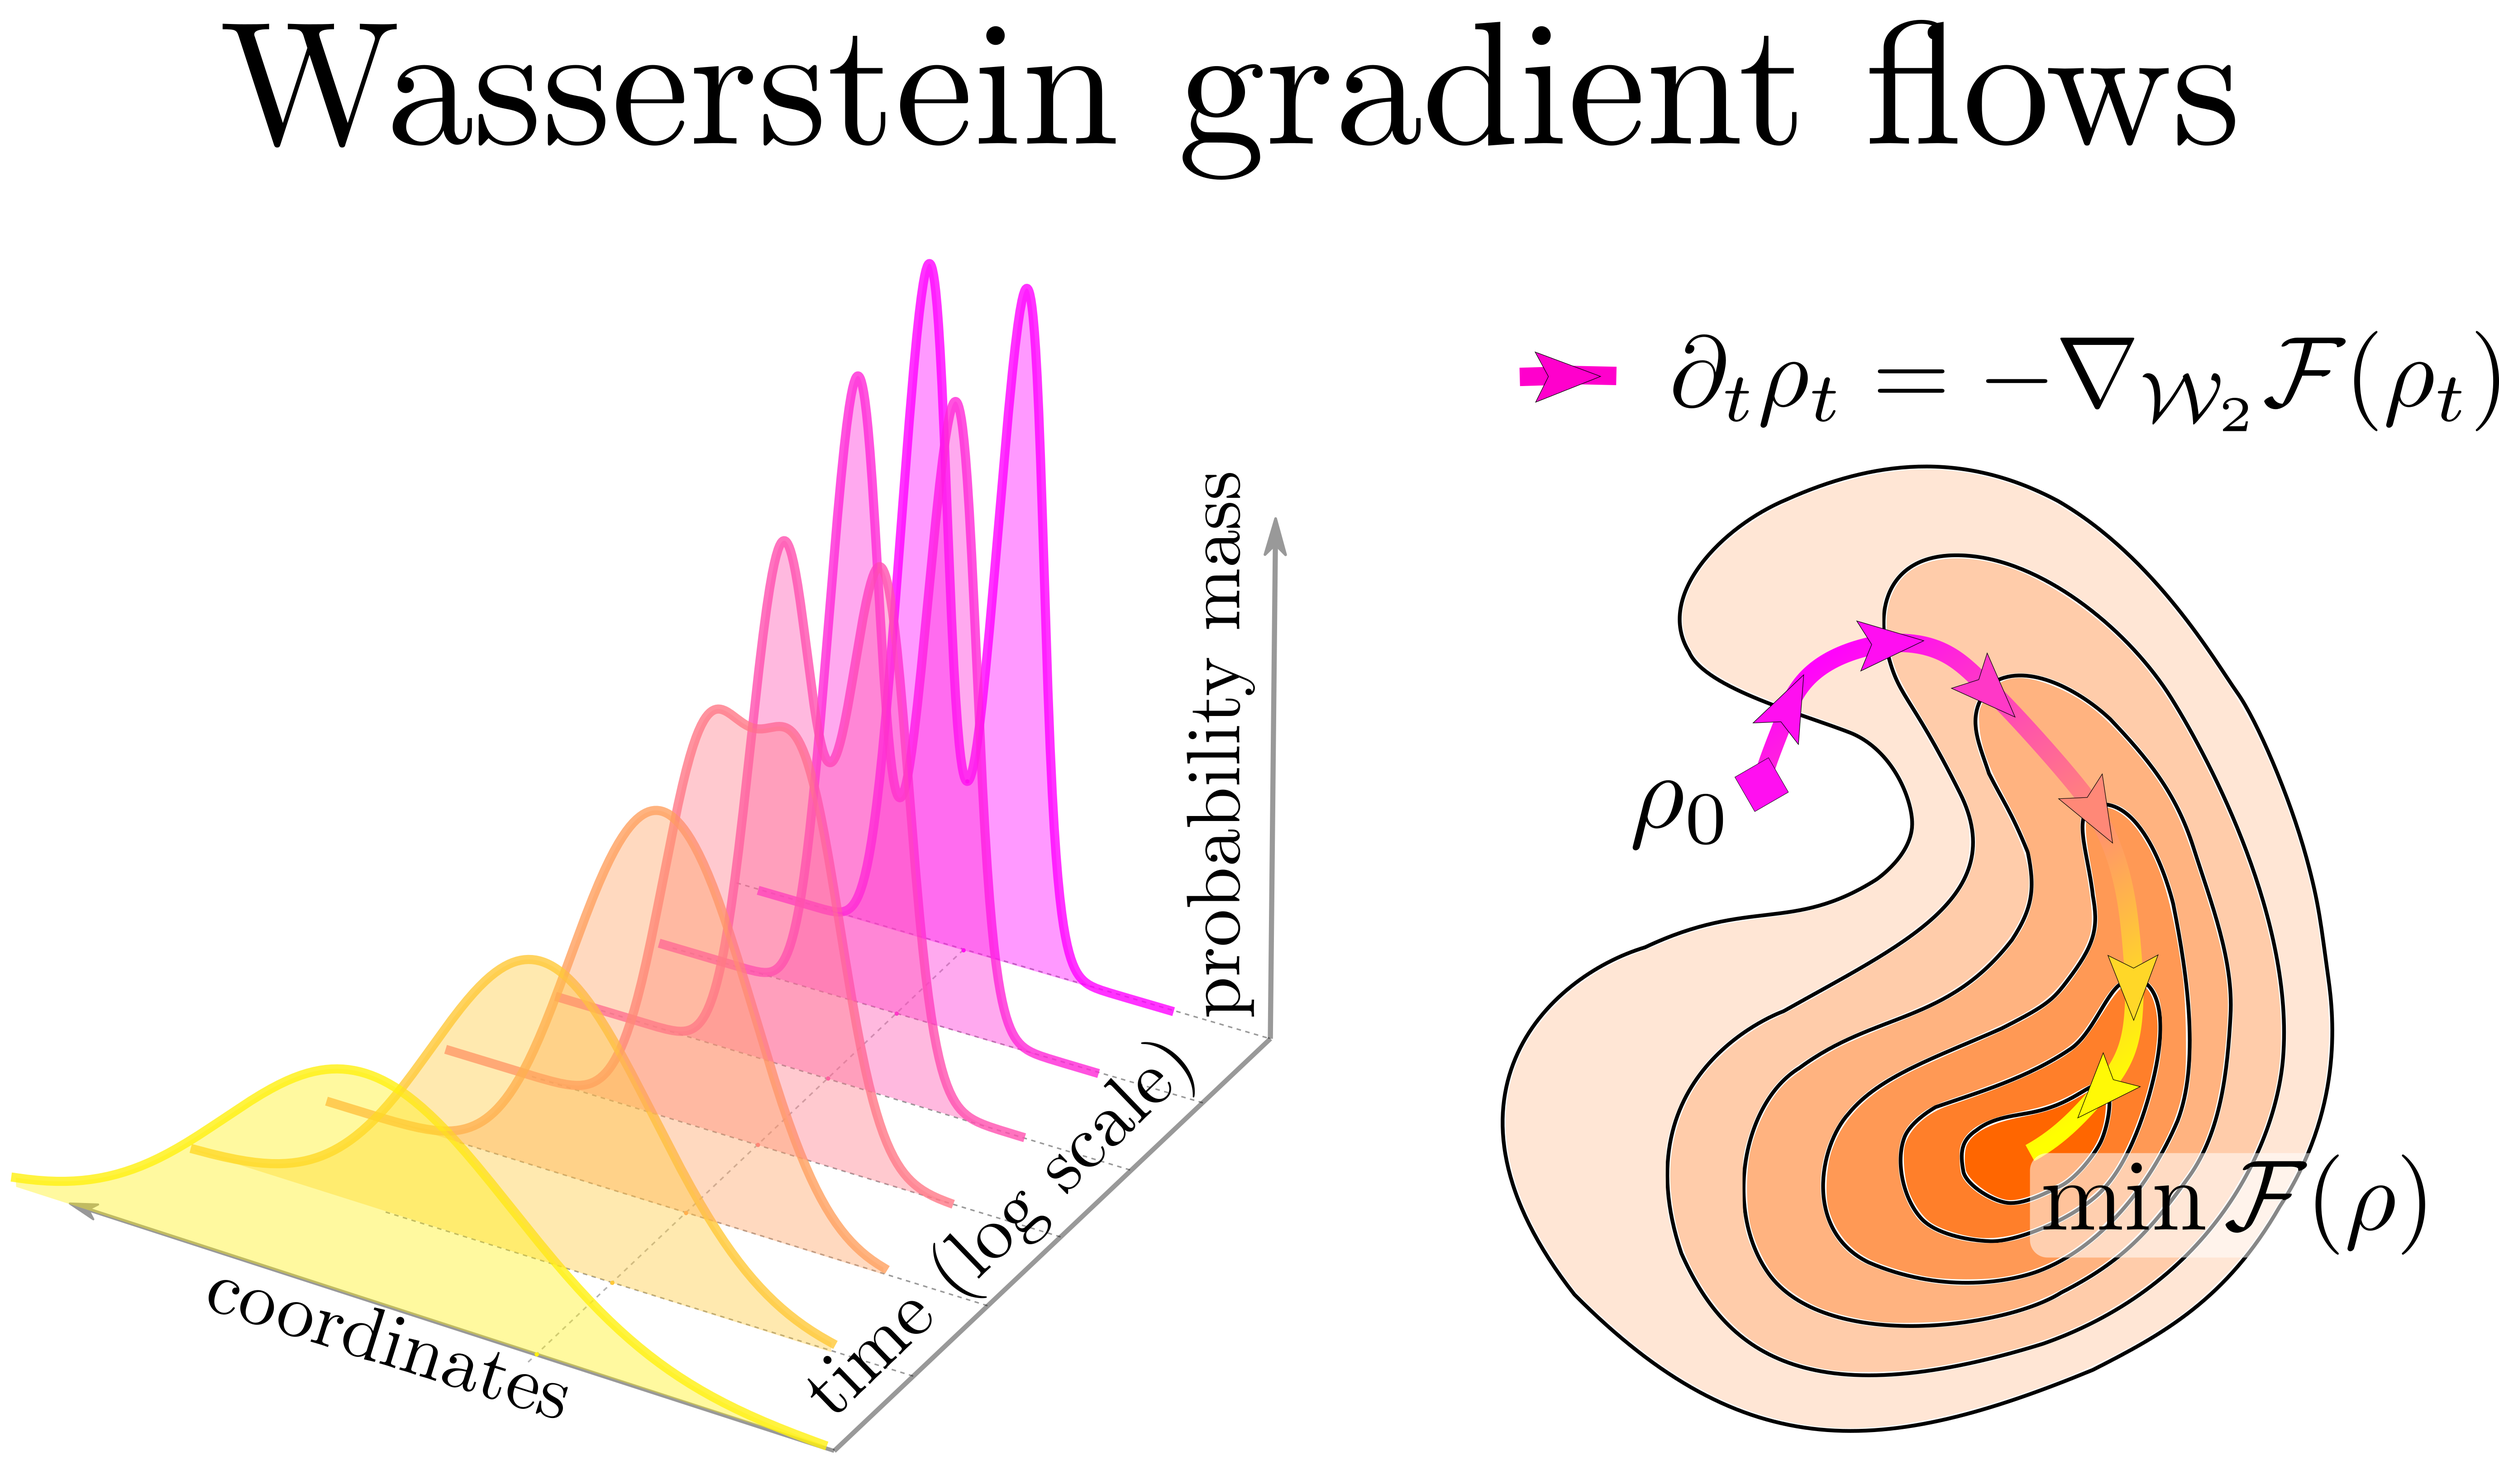
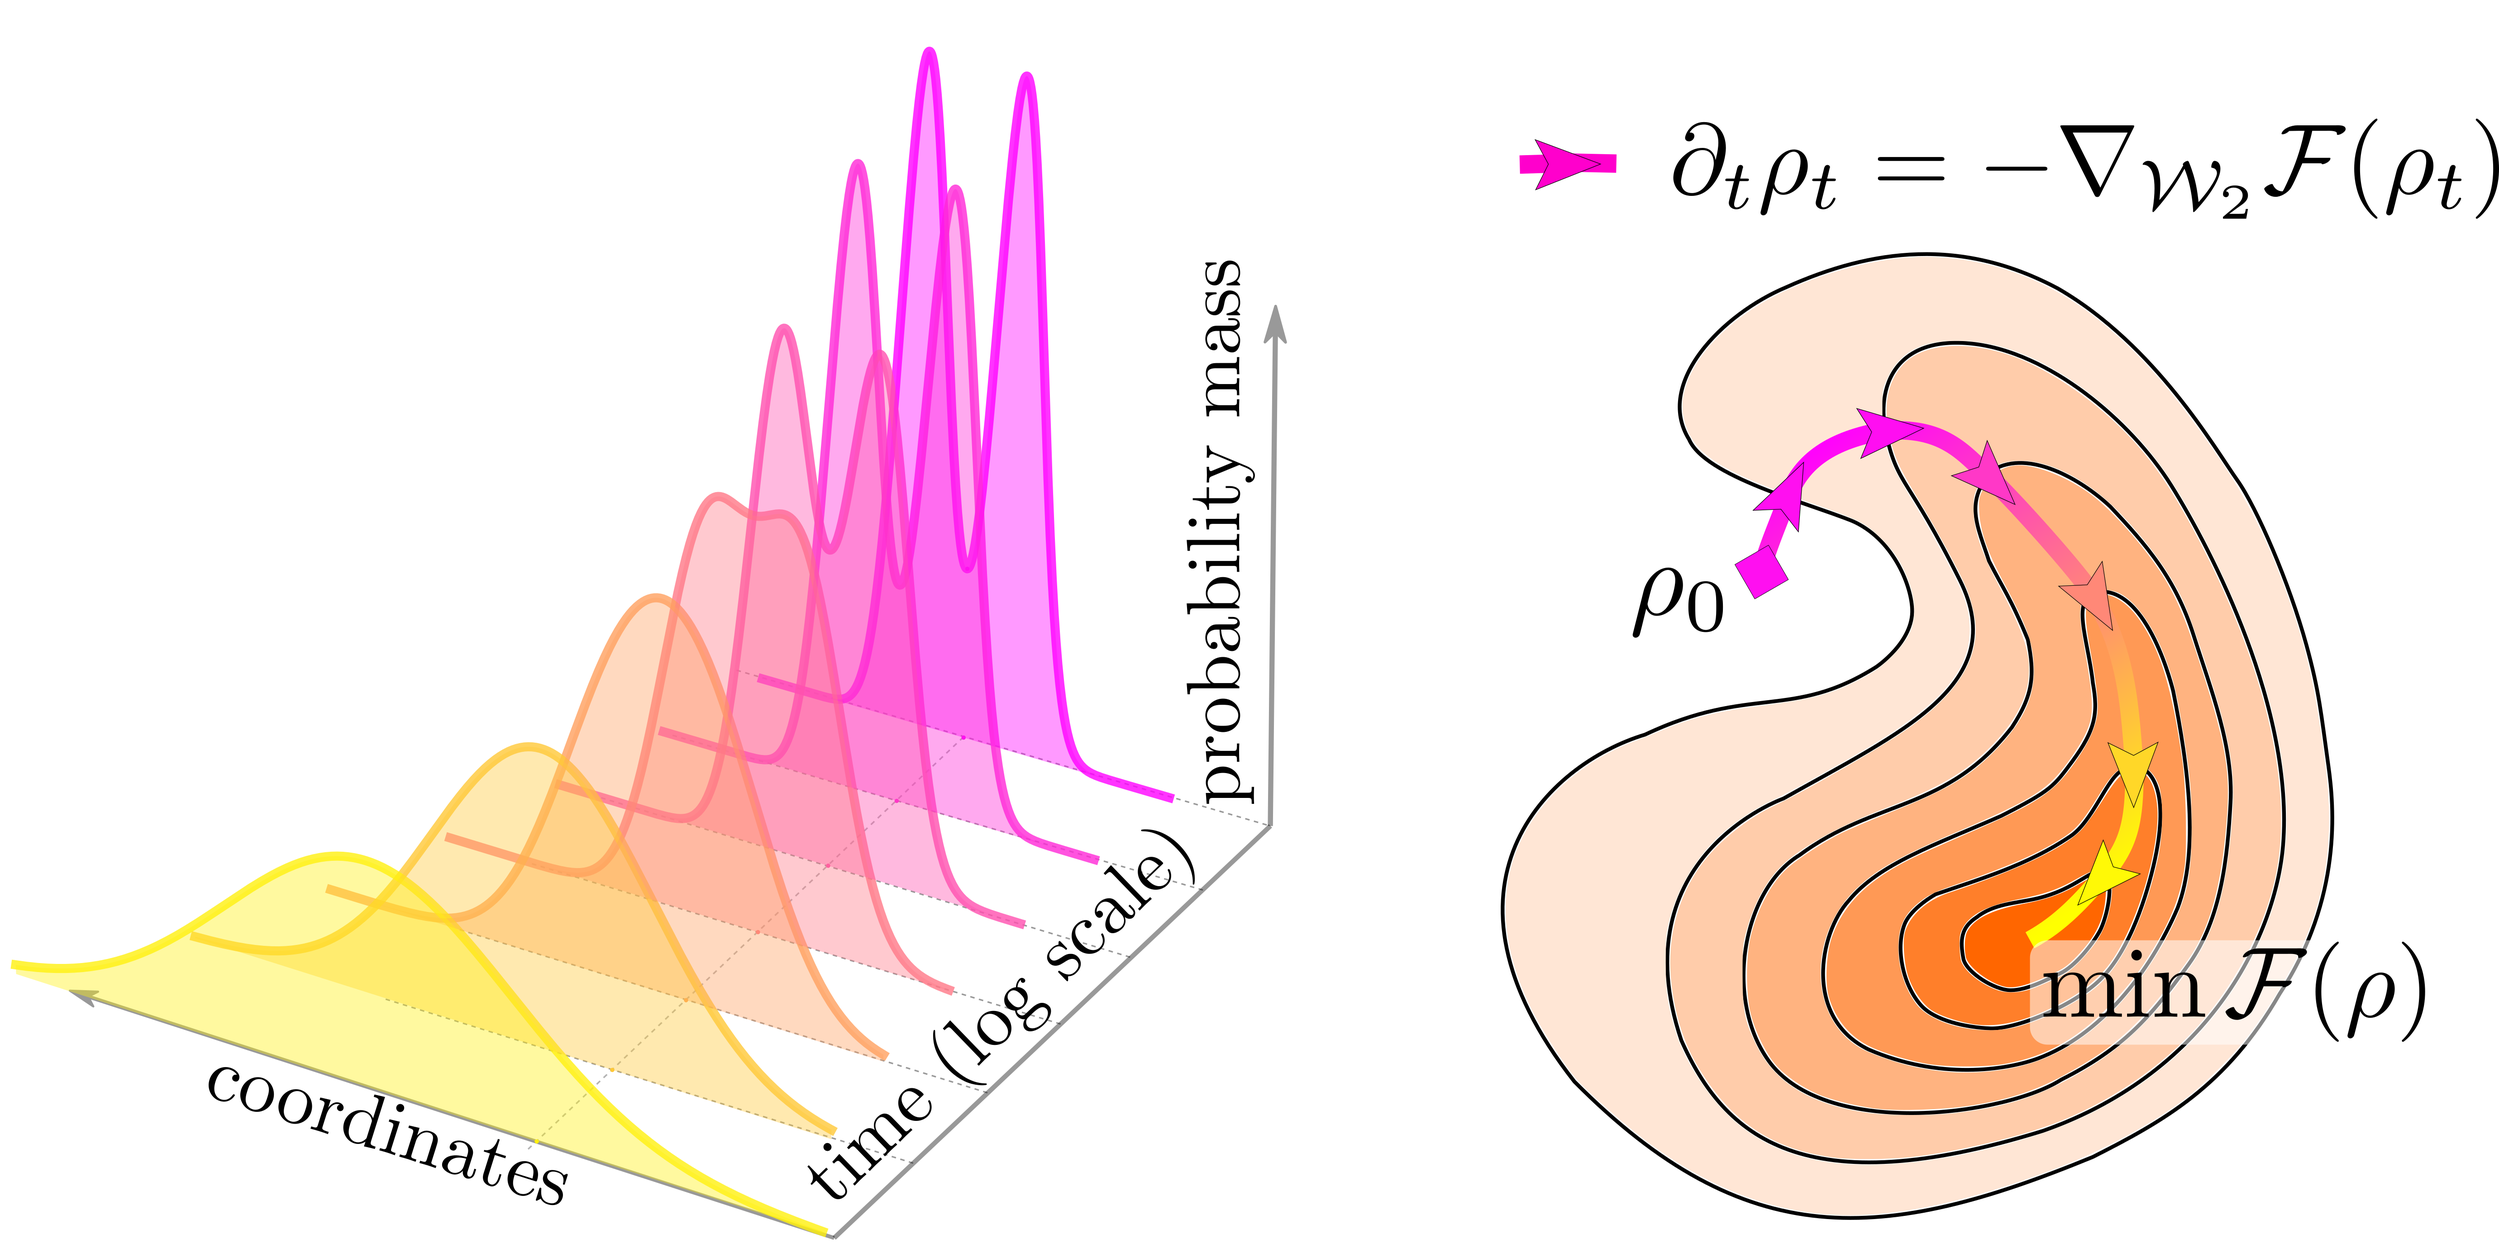
add credits

Changed region(s): [[0.0, 0.0, 1.0, 0.9975], [0.5918, 0.187, 1.0, 0.9975]]

diff --git a/README.md b/README.md
@@ -2,7 +2,7 @@
 
 This repository contains **code** and **results** of the experiments of NeurIPS 2021 paper *[Large-Scale Wasserstein Gradient Flows](https://arxiv.org/abs/2106.00736)* by [Petr Mokrov](https://www.semanticscholar.org/author/Petr-Mokrov/2106626550), [Alexander Korotin](https://scholar.google.ru/citations?user=1rIIvjAAAAAJ&hl=en), [Lingxiao Li](https://scholar.google.com/citations?user=rxQDLWcAAAAJ&hl=en), [Aude Genevay](https://scholar.google.com/citations?user=SryRaIMAAAAJ), [Justin Solomon](https://scholar.google.com/citations?user=pImSVwoAAAAJ) and [Evgeny Burnaev](https://scholar.google.ru/citations?user=pCRdcOwAAAAJ&hl=ru). We approximate gradient flows and, in particular, diffusion processes governed by Fokker-Planck equation using JKO scheme modelled via Input Convex Neural Networks. We conduct experiments to demonstrate that our approach works in different scenarios and machine learning applications.
 
-<p align="center"><img src="images/motivation.png" width="450" /></p>
+<p align="center"><img src="images/motivation.png" width="500" /></p>
 
 ## Citation
 
@@ -112,3 +112,12 @@ The obtained discrepancy between fitted methods and ground truth method (Chang&C
 
 <p align="center"><img src="./images/filtering_boxplot.png" alt="drawing" width="450"/></p>
 
+## Credits
+
+* [SVGD repo](https://github.com/DartML/Stein-Variational-Gradient-Descent) with SVGD implementation and corresponding benchmark datasets.
+
+* [W2GN repo](https://github.com/iamalexkorotin/Wasserstein2GenerativeNetworks) with ICNN implementation
+
+* Authors of [Approximate Inference with Wasserstein Gradient Flows](http://proceedings.mlr.press/v108/frogner20a/frogner20a.pdf) kindly provided us with their source code
+
+* [pychangcooper repo](https://github.com/grburgess/pychangcooper) with Chang&Cooper numerical solver for Fokker-Planck equation
